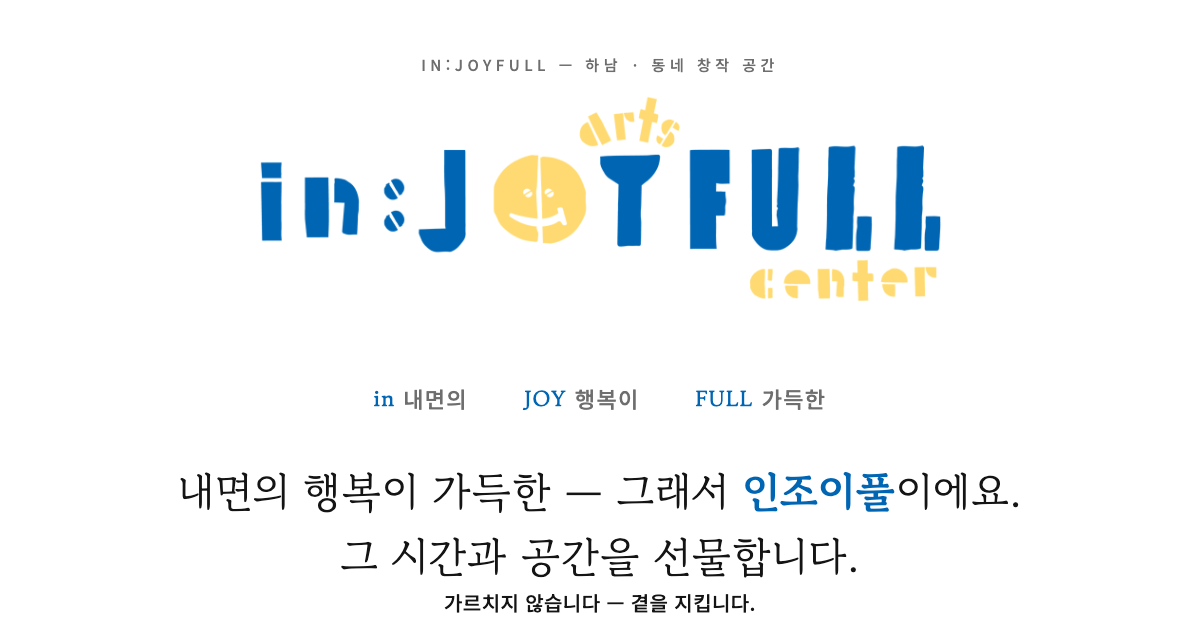
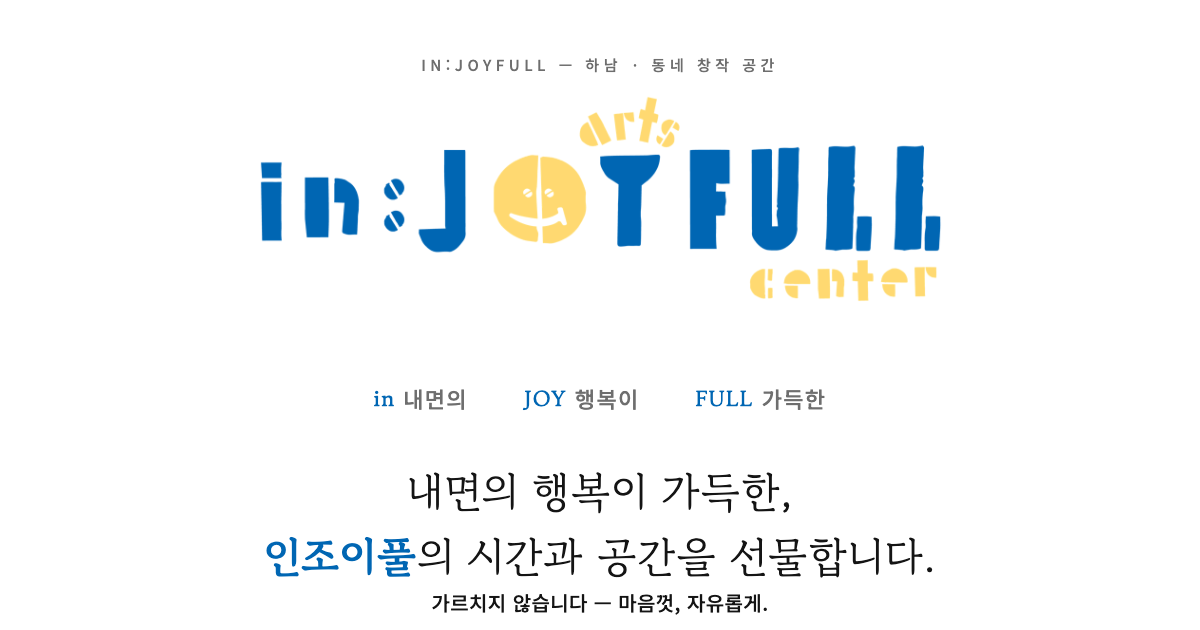
커버 카피 4건 — 의미 라인·한국식 줄바꿈·마음껏 자유롭게·아이들의 실제 말 티커 + OG 재렌더

Changed region(s): [[0.2158, 0.8444, 0.7708, 0.9952], [0.1542, 0.754, 0.8325, 0.8143]]

diff --git a/index.html b/index.html
@@ -21,7 +21,7 @@
   <meta property="og:image" content="https://injoyfull.github.io/og.png">
   <meta property="og:image:width" content="1200">
   <meta property="og:image:height" content="630">
-  <meta property="og:image:alt" content="인조이풀 로고 — in 내면의 · JOY 행복이 · FULL 가득한. 내면의 행복이 가득한 그 시간과 공간을 선물합니다.">
+  <meta property="og:image:alt" content="인조이풀 로고 — in 내면의 · JOY 행복이 · FULL 가득한. 내면의 행복이 가득한, 인조이풀의 시간과 공간을 선물합니다.">
   <meta name="twitter:card" content="summary_large_image">
 
   <link rel="icon" href="logo.png" type="image/png">
@@ -29,7 +29,7 @@
   <link rel="preconnect" href="https://fonts.googleapis.com">
   <link rel="preconnect" href="https://fonts.gstatic.com" crossorigin>
   <link href="https://fonts.googleapis.com/css2?family=Gowun+Batang:wght@400;700&display=swap" rel="stylesheet">
-  <link rel="stylesheet" href="style.css?v=35">
+  <link rel="stylesheet" href="style.css?v=36">
 </head>
 <body>
   <a class="skip" href="#main">본문으로 건너뛰기</a>
@@ -58,20 +58,23 @@
         <span class="piece p2"><i></i><b>행복이</b></span>
         <span class="piece p3"><i></i><b>가득한</b></span>
       </div>
-      <p class="assemble__line">내면의 행복이 가득한 — 그래서 <strong>인조이풀</strong>이에요. 그 시간과 공간을 선물합니다.</p>
+      <p class="assemble__line">내면의 행복이 가득한, <strong>인조이풀</strong>의 시간과 공간을 선물합니다.</p>
       <h1 class="head">
         <span>인풋은 가득한데,</span>
-        <span><em>아웃풋</em>을 펼칠</span>
-        <span>곳이 없다.</span>
+        <span><em>아웃풋</em>을</span>
+        <span>펼칠 곳이 없다.</span>
       </h1>
       <p class="cover__sub">
         ‘나만의 스토리’를 만들어가는 곳.<br>
-        가르치지 않습니다 — 곁을 지킵니다.
+        가르치지 않습니다 — 마음껏, 자유롭게.
       </p>
+      <!-- 아이들이 실제로 한 말들 (2026-07-25 한나님 제공) -->
       <p class="ticker" aria-live="off">
-        <span>오늘은 <b>물감</b>으로 이야기했어요.</span>
-        <span>오늘은 <b>로봇</b>을 움직였어요.</span>
-        <span>오늘은 그냥 <b>가만히</b> 있었어요.</span>
+        <span>오늘은 생각을 <b>길게</b> 해 보았어요.</span>
+        <span>어제 꾼 <b>꿈</b>에 나온 캐릭터를 만들어 봤어요.</span>
+        <span><b>여름</b>을 표현했어요.</span>
+        <span><b>실험</b>해볼래요.</span>
+        <span>손이 그냥 <b>움직이는 대로</b> 표현해 보았어요.</span>
       </p>
     </section>
 

diff --git a/style.css b/style.css
@@ -1430,17 +1430,19 @@ h2 strong, h2 b { font-weight: 700; }
   font-size: 0.95rem;
   color: var(--ink-soft);
   opacity: 0;
-  animation: cycle2 13.5s infinite;
+  animation: cycle2 22.5s infinite;  /* 문장 5개 × 4.5s */
   animation-delay: calc(4.7s + var(--d, 0s));
 }
 .ticker span:nth-child(1) { --d: 0s; }
 .ticker span:nth-child(2) { --d: 4.5s; }
 .ticker span:nth-child(3) { --d: 9s; }
+.ticker span:nth-child(4) { --d: 13.5s; }
+.ticker span:nth-child(5) { --d: 18s; }
 .ticker b { color: var(--blue); font-weight: 500; }
 @keyframes cycle2 {
   0% { opacity: 0; transform: translateY(8px); }
-  4%, 29% { opacity: 1; transform: none; }
-  33%, 100% { opacity: 0; transform: translateY(-8px); }
+  2.4%, 17.4% { opacity: 1; transform: none; }
+  19.8%, 100% { opacity: 0; transform: translateY(-8px); }
 }
 @media (prefers-reduced-motion: reduce) {
   .assemble, .piece, .piece b, .assemble__line, .head span, .cover .cover__sub, .ticker { animation: none; }
